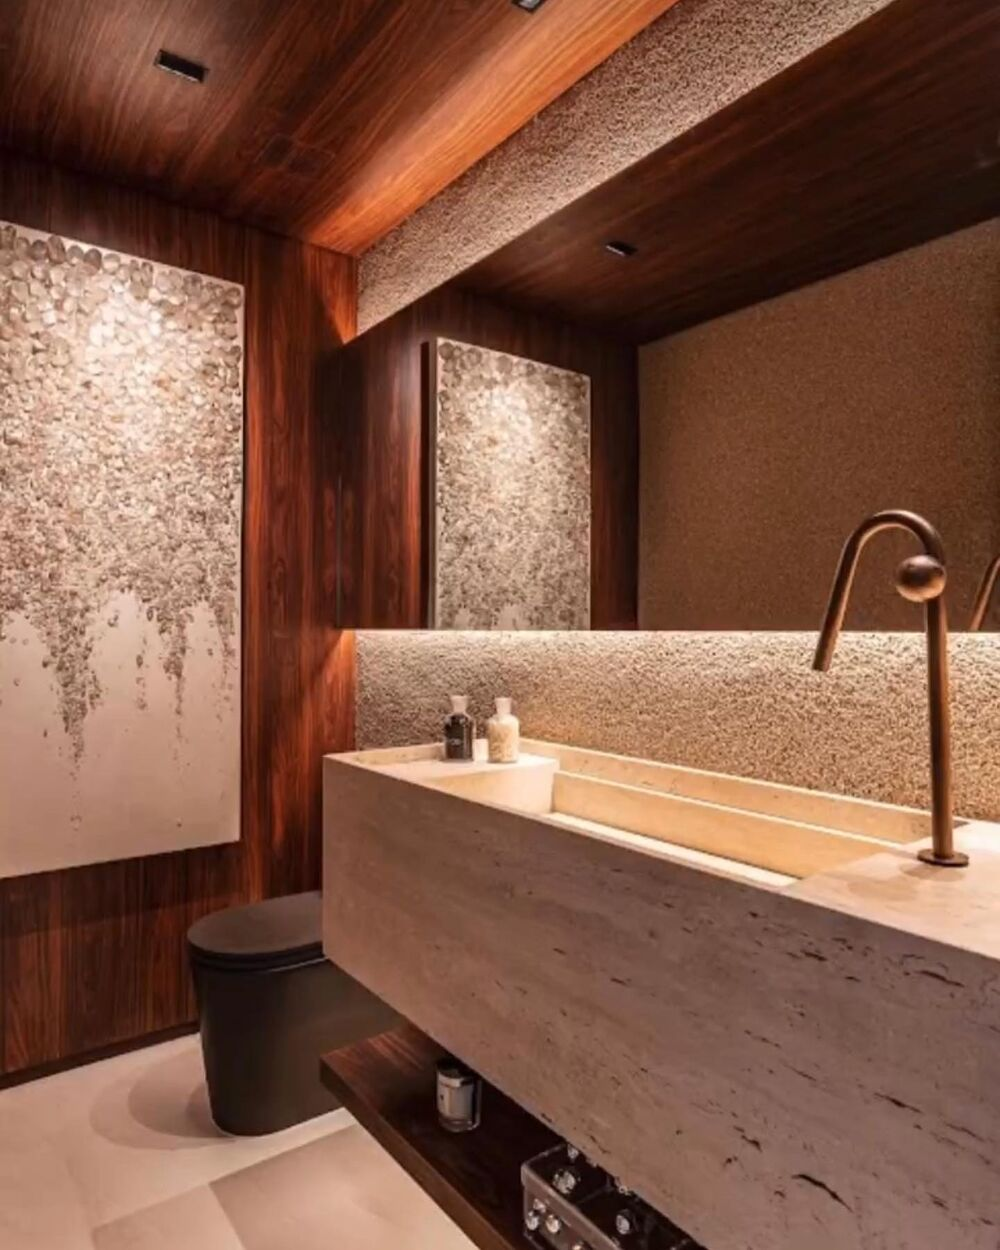
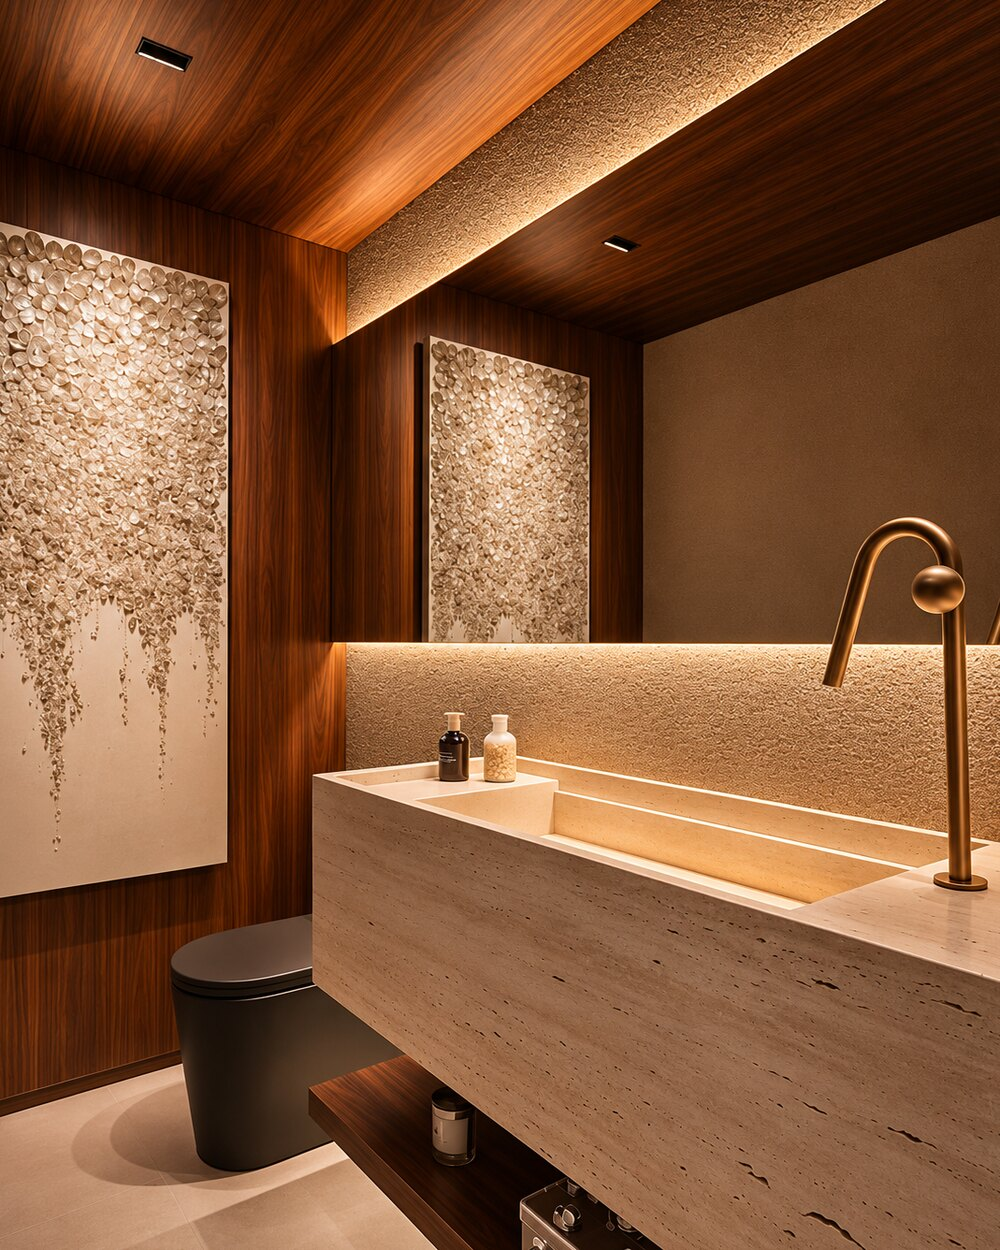
Add files via upload

diff --git a/index.html b/index.html
@@ -147,7 +147,7 @@
     <div class="hero-texto">
       <p class="hero-sobre">Empresa familiar em São Paulo desde 1972</p>
       <h1>Marmoraria tradicional perto de você</h1>
-      <p class="lead">Bancadas, pias, ilhas, lavatórios e cubas esculpidas em mármore, granito, quartzito e superfícies industrializadas. Peças sob medida, fabricadas e instaladas por mão de obra especializada.</p>
+      <p class="lead">Há mais de 50 anos, transformamos mármores, granitos e pedras nobres em peças exclusivas. Unimos tradição, sofisticação e acabamentos impecáveis para criar ambientes elegantes, personalizados e atemporais.</p>
       <div class="hero-ctas">
         <a class="btn btn-azul" href="#orcamento">Pedir orçamento do meu projeto</a>
         <a class="btn btn-linha" href="#" data-wa="hero">
